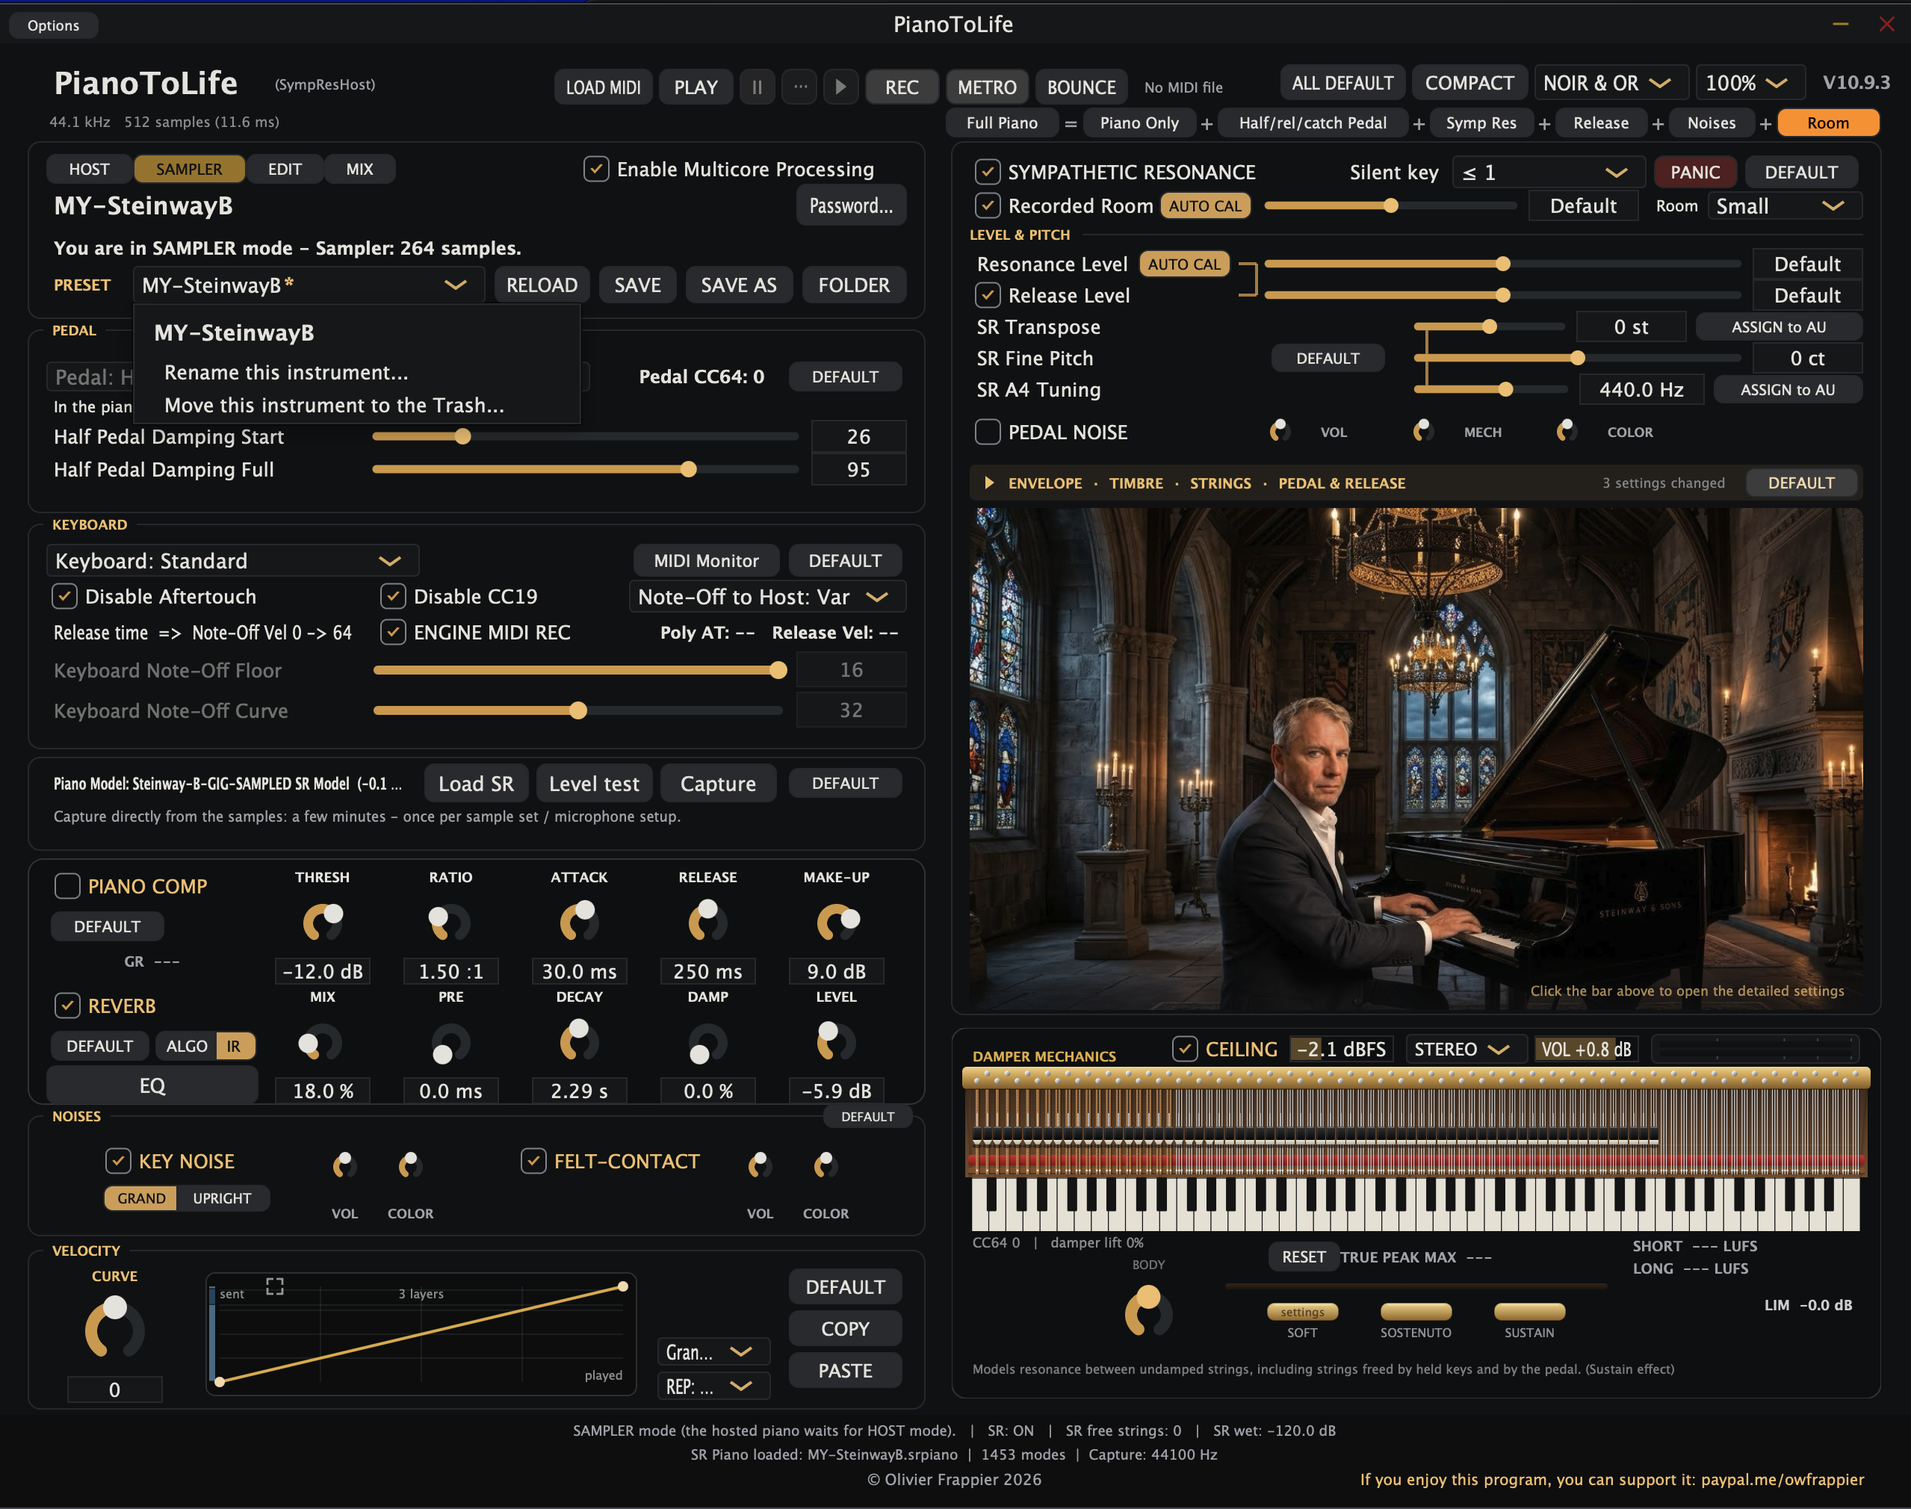
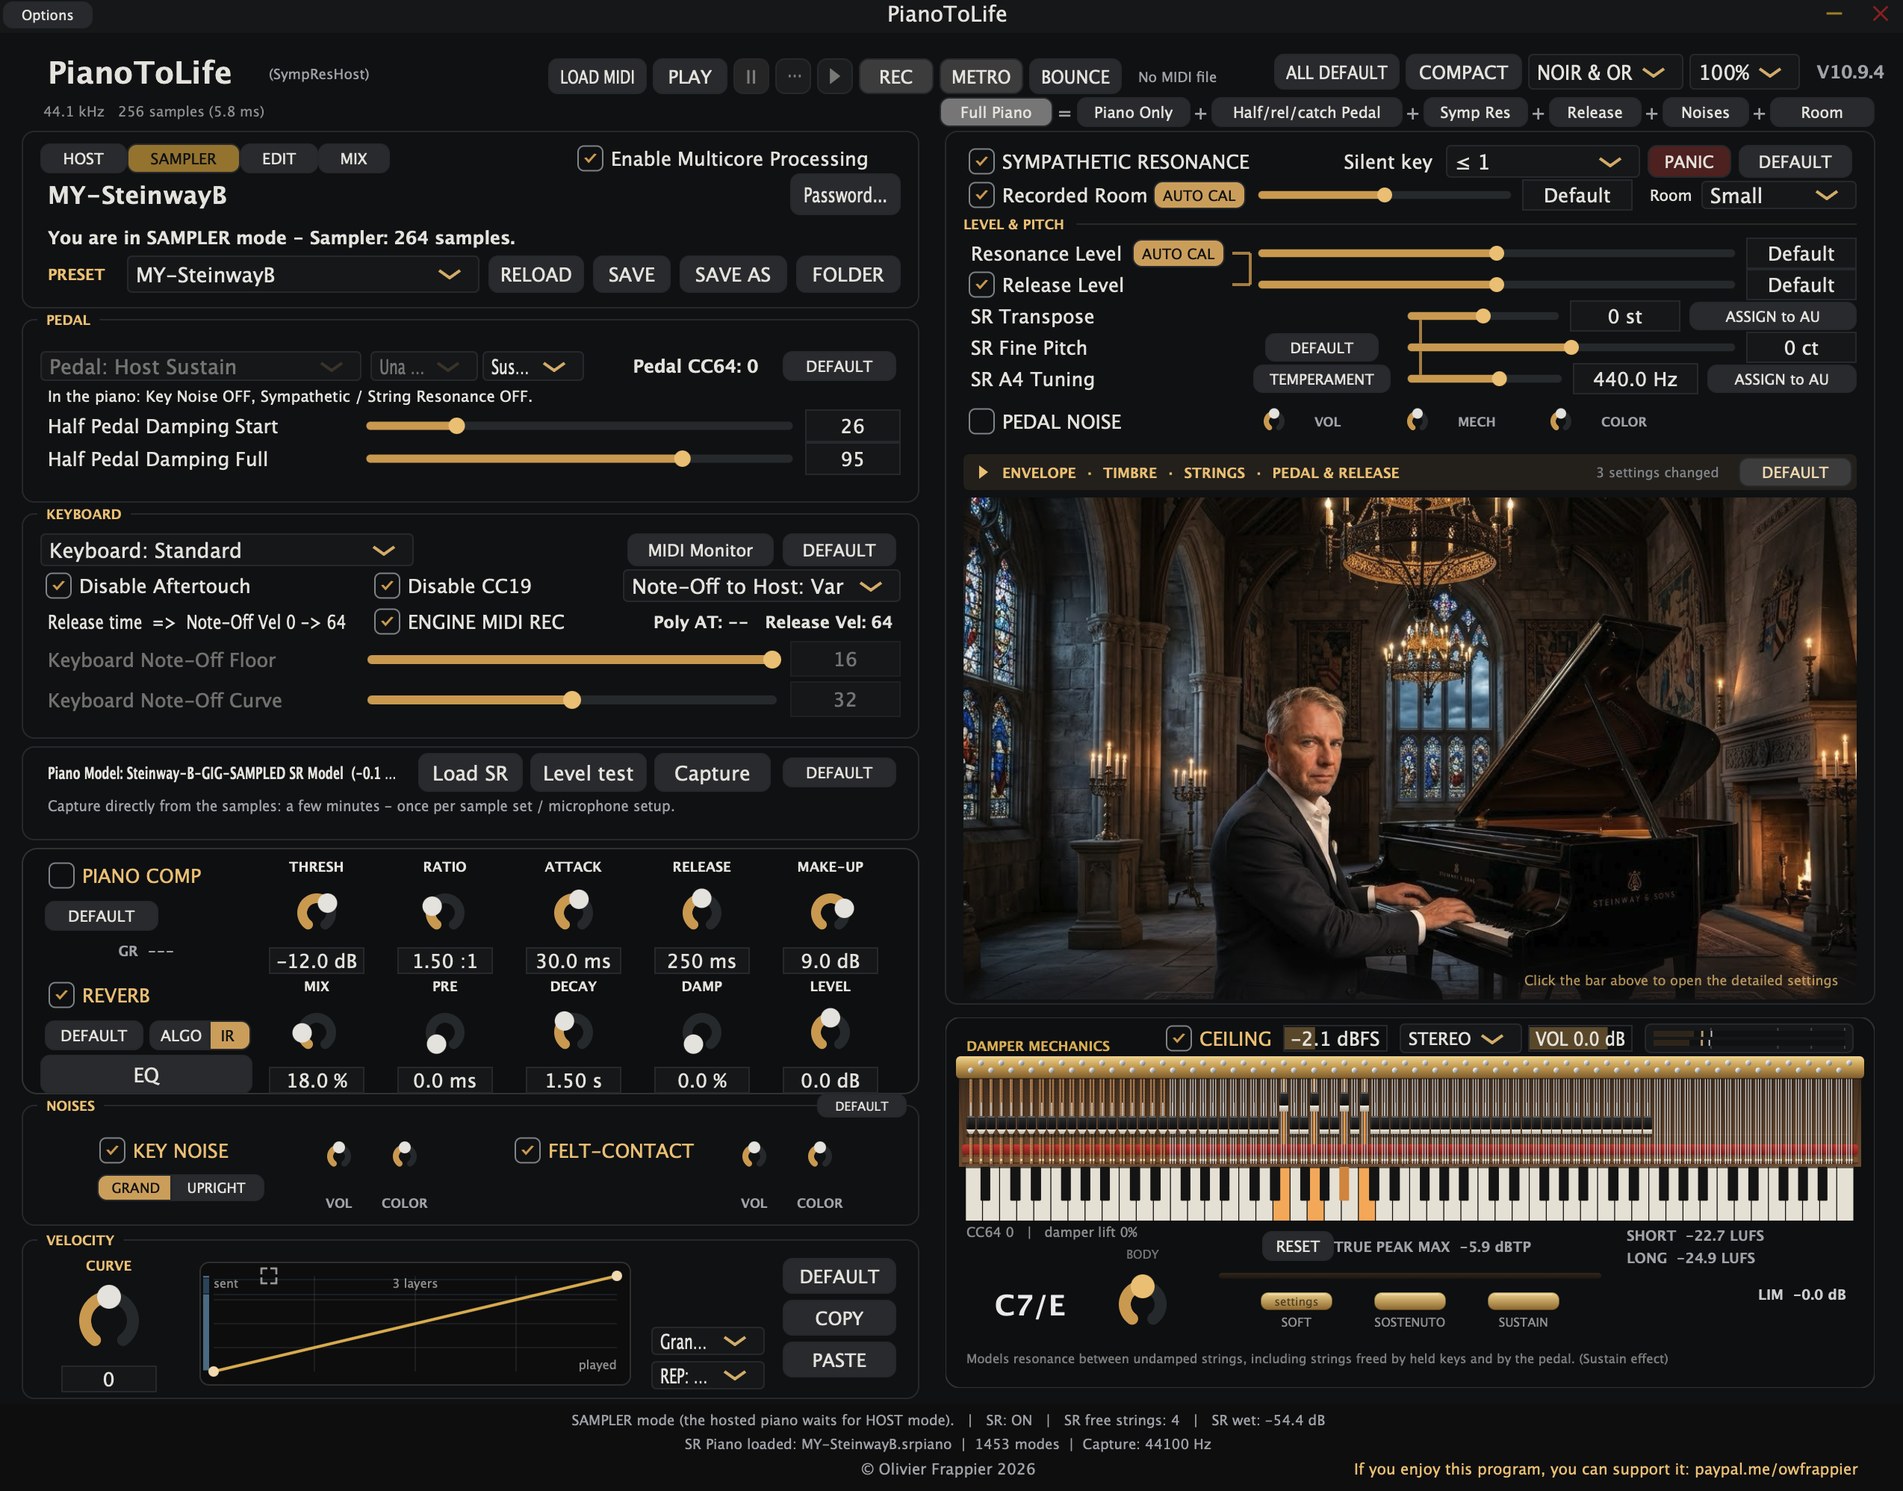
Add files via upload

diff --git a/MANUEL_SAMPLER.md b/MANUEL_SAMPLER.md
@@ -1,6 +1,6 @@
 # Sampler de PianoToLife — Manuel d'utilisation
 
-*Version 10.9.3 · [English version](SAMPLER_MANUAL.md) · Manuel général : [Manuel d'utilisation](MANUEL.md)*
+*Version 10.9.4 · [English version](SAMPLER_MANUAL.md) · Manuel général : [Manuel d'utilisation](MANUEL.md)*
 
 Le sampler intégré de PianoToLife joue **vos propres échantillons de piano**, avec tous les moteurs de PianoToLife
 par-dessus. Ce manuel explique comment transformer un dossier d'échantillons en piano jouable, ce que fait chaque
@@ -208,7 +208,8 @@ partie vide de la grille pour vider la sélection avant de travailler sur toutes
    AUTO DYN, pour qu'il écoute des frappes bien alignées.
 3. **AUTO DYN1 / AUTO DYN2** (10.6.2 ; un seul AUTO DYN avant, appelé RECAL A4 avant la 10.4.2) — tous deux écoutent
    le A4 aux 127 vélocités, placent ses couches là où leur intensité les met sur la courbe de référence et les mettent
-   à niveau. Ils mesurent aussi l'accord du A4 (envoyé à SR A4 Tuning : 440 Hz joue le set tel qu'il a été enregistré).
+   à niveau. Ils mesurent aussi l'accord du A4 (envoyé à SR A4 Tuning : cette valeur joue le set tel qu'il a été
+   enregistré ; RESET dans la fenêtre TEMPERAMENT y revient).
    Ensuite :
    - **AUTO DYN1** (global, comme avant la 10.5.6) : chaque touche qui a **autant de couches que le A4** reçoit les
      plages de vélocité du A4 et est mise à niveau ; les touches qui ont un autre nombre de couches restent telles
@@ -367,7 +368,7 @@ les couches des touches choisies.
 | **Attack** | Temps de montée, 0 = l'échantillon tel qu'enregistré |
 | **Decay** / **Sustain** | Temps pour atteindre le niveau Sustain ; 0 = l'extinction naturelle de l'échantillon |
 | **Release** | 0 = **Auto** (le modèle d'étouffoirs de PianoToLife ; sans étouffoir au-dessus de Undamped Keys Above) ; un temps en ms ; tout à droite = **Infinite** (sans étouffoir : touches aiguës non étouffées) |
-| **Tune** | Accord fin en cents |
+| **Tune** | Accord fin en cents. **ALL 0** (10.9.4, au bout de la ligne) : le Tune de toutes les touches revient à 0, la hauteur des samples tels qu'enregistrés (une étape UNDO) |
 | **LP** + fréquence + **LP Vel** | Passe-bas optionnel par voix ; LP Vel assombrit les notes douces (jusqu'à 3 octaves plus bas à 100 %) |
 | **Undamped** | Undamped Keys Above, pour tout le piano (le réglage de la fenêtre principale, synchronisé) : les touches au-dessus n'ont pas d'étouffoir |
 
@@ -456,11 +457,40 @@ En mode SAMPLER, les moteurs de PianoToLife jouent sur vos échantillons :
   vrai piano — niveau, brillance, extinction, attaque, un très léger désaccord dans le grave, et la montée d'une
   touche refrappée pendant qu'elle sonne — mesurées sur la référence choisie (Grand D / Grand B / Upright).
   Désactivé par défaut ; enregistré dans les presets ([Manuel d'utilisation](MANUEL.md#répétition-de-piano-réel-rep)).
-- **Accord** : SR Transpose, SR Fine Pitch et SR A4 Tuning agissent sur le sampler.
+- **Accord** : SR Transpose, SR Fine Pitch et SR A4 Tuning agissent sur le sampler ; le tempérament : **TEMPERAMENT**
+  (ci-dessous).
 - **BODY** : la taille perçue du piano.
 
 **Détecteur de couches** (à côté de Capture) : joue une note aux 127 vélocités et liste les vraies couches du piano,
 pour vérifier un set. **LEVEL TEST** : joue A0, C2, C4, C6 et C8 à la vélocité 127 et indique si le piano sature.
+
+### Tempérament et diapason (10.9.4)
+
+**TEMPERAMENT** (fenêtre principale, sur la ligne SR A4 Tuning — pas dans EDIT, donc utilisable sur un set protégé
+par mot de passe) mesure le tempérament dans lequel vos samples ont été enregistrés, à partir de la hauteur de chaque
+touche, et vous permet de jouer le piano dans un autre. **Les samples ne sont jamais modifiés** : chaque touche reçoit
+un décalage ajouté à son Tune, et la résonance sympathique suit (chaque corde libre, et la force avec laquelle elle
+répond).
+
+- **Temperament** : *Original (as recorded)*, Equal, Pythagorean, Just intonation, Werckmeister III, Kirnberger III,
+  Vallotti, Young, Meantone 1/4, 1/3, 1/5, 1/6 et 2/7 comma ; en bas de la liste, **Load a Scala file (.scl)...**
+  (12 notes par octave, qui se répètent à l'octave) et **Export as a Scala file (.scl)...** (le tempérament joué ; le
+  stretch et le A4 ne font pas partie d'un fichier Scala).
+- **Tonic** : la tonalité sur laquelle le tempérament est construit (ses accords les plus purs).
+- **Stretch** : 100 % = le stretch avec lequel ce piano a été accordé (mesuré), 0 % = aucun (chaque octave exacte),
+  jusqu'à 200 %.
+- **Diapason A4** : le même réglage que SR A4 Tuning ; **RESET** remet le A4 auquel le piano a été enregistré.
+- **AS RECORDED** : retour au tempérament, au stretch et au A4 de l'enregistrement.
+- **Le tableau** : pour chacune des 12 notes, en cents par rapport au tempérament égal (La = 0), **Recorded** (mesuré
+  sur les samples, de La 2 à Do 6), **Played** et **Shift**. **Cliquez une valeur de Shift pour taper la vôtre**
+  (−60 à +60) : le tempérament devient **Custom (edited)**, enregistré avec le set. En dessous : le stretch enregistré
+  (Do 2 à Do 7) et le tempérament le plus proche de l'enregistrement (par exemple *closest to Equal, 1.5 c rms*).
+
+Chaque touche garde ses petites différences (un accord réel n'est jamais parfait) ; seuls le tempérament et le
+stretch changent. Le tempérament est enregistré dans le set, les presets et les sessions ; chaque changement est une
+étape UNDO nommée dans EDIT. Les pitch bends et les messages d'accord des fichiers MIDI ne sont pas utilisés. La
+capture du Piano Model mesure toujours les samples tels qu'enregistrés : elle n'est jamais à refaire pour un
+tempérament.
 
 ---
 

diff --git a/SAMPLER_MANUAL.md b/SAMPLER_MANUAL.md
@@ -1,6 +1,6 @@
 # PianoToLife Sampler — User Manual
 
-*Version 10.9.3 · [Version française](MANUEL_SAMPLER.md) · General manual: [User Manual](USER_MANUAL.md)*
+*Version 10.9.4 · [Version française](MANUEL_SAMPLER.md) · General manual: [User Manual](USER_MANUAL.md)*
 
 PianoToLife's built-in sampler plays **your own piano samples** with all of PianoToLife's engines on top of
 them. This manual explains how to turn a folder of samples into a playable piano, what every button does, and
@@ -198,7 +198,8 @@ a selection before working on every key.
    listens to well-aligned strikes.
 3. **AUTO DYN1 / AUTO DYN2** (10.6.2; one AUTO DYN before, called RECAL A4 before 10.4.2) — both listen to A4 at all
    127 velocities, place its layers where their loudness belongs on the reference curve and level them. They also
-   measure A4's tuning (sent to SR A4 Tuning, so 440 Hz plays the set as recorded). Then:
+   measure A4's tuning (sent to SR A4 Tuning: that value plays the set as recorded; RESET in the TEMPERAMENT window
+   goes back to it). Then:
    - **AUTO DYN1** (global, as before 10.5.6): every key with **as many layers as A4** gets A4's velocity ranges and is
      levelled; keys with another number of layers are left as they are (AUTO DYN2 places them). For a library
      recorded evenly key to key.
@@ -344,7 +345,7 @@ keys.
 | **Attack** | Fade-in time, 0 = the sample as recorded |
 | **Decay** / **Sustain** | Time to reach the Sustain level; 0 = the natural decay of the sample |
 | **Release** | 0 = **Auto** (PianoToLife's damper model; no damper above Undamped Keys Above); a time in ms; all the way right = **Infinite** (no damper: undamped top keys) |
-| **Tune** | Fine tune in cents |
+| **Tune** | Fine tune in cents. **ALL 0** (10.9.4, at the end of the row): every key's Tune back to 0, the pitch of the samples as recorded (one UNDO step) |
 | **LP** + cutoff + **LP Vel** | Optional low-pass per voice; LP Vel makes soft notes darker (up to 3 octaves lower at 100 %) |
 | **Undamped** | Undamped Keys Above, for the whole piano (the main window's setting, in sync): the keys above it have no damper |
 
@@ -433,11 +434,38 @@ In SAMPLER mode, PianoToLife's engines play on your samples:
   brightness, decay, attack, a tiny detune in the bass, and the build-up of a key struck again while it sounds — as
   measured on the chosen reference (Grand D / Grand B / Upright). Off by default; saved in presets
   ([User Manual](USER_MANUAL.md#real-piano-repetition-rep)).
-- **Tuning**: SR Transpose, SR Fine Pitch and SR A4 Tuning play on the sampler.
+- **Tuning**: SR Transpose, SR Fine Pitch and SR A4 Tuning play on the sampler; the temperament: **TEMPERAMENT**
+  (below).
 - **BODY**: the perceived size of the piano.
 
 **Layer detector** (next to Capture): plays a note at the 127 velocities and lists the real layers of the piano, to
 check a set.  **LEVEL TEST**: plays A0, C2, C4, C6, C8 at velocity 127 and tells you whether the piano clips.
+
+### Temperament and diapason (10.9.4)
+
+**TEMPERAMENT** (main window, on the SR A4 Tuning row — not in EDIT, so it works on a set protected by a password)
+measures the temperament your samples were recorded in, from the pitch of every key, and lets you play the piano in
+another one. **The samples are never changed**: each key gets an offset added to its Tune, and the sympathetic
+resonance follows (each free string, and how strongly it answers).
+
+- **Temperament**: *Original (as recorded)*, Equal, Pythagorean, Just intonation, Werckmeister III, Kirnberger III,
+  Vallotti, Young, Meantone 1/4, 1/3, 1/5, 1/6 and 2/7 comma; at the bottom of the list, **Load a Scala file
+  (.scl)...** (12 notes per octave, repeating at the octave) and **Export as a Scala file (.scl)...** (the temperament
+  played; the stretch and the A4 are not in a Scala file).
+- **Tonic**: the key the temperament is built on (its purest chords).
+- **Stretch**: 100 % = the stretch this piano was tuned with (measured), 0 % = none (every octave exact), up to
+  200 %.
+- **Diapason A4**: the same setting as SR A4 Tuning; **RESET** puts back the A4 the piano was recorded at.
+- **AS RECORDED**: back to the temperament, the stretch and the A4 of the recording.
+- **The table**: for each of the 12 notes, in cents from equal temperament (A = 0), **Recorded** (measured on the
+  samples, A2 to C6), **Played** and **Shift**. **Click a Shift value to type your own** (−60 to +60): the
+  temperament becomes **Custom (edited)**, saved with the set. Under it: the stretch recorded (C2 to C7) and the
+  temperament closest to the recording (e.g. *closest to Equal, 1.5 c rms*).
+
+Each key keeps its own small differences (a real tuning is never perfect); only the temperament and the stretch
+change. The temperament is saved in the set, the presets and the sessions; every change is a named UNDO step in EDIT.
+Pitch bends and tuning messages of MIDI files are not used. The Piano Model capture always measures the samples as
+recorded, so it never needs to be done again for a temperament.
 
 ---
 

diff --git a/MANUEL.md b/MANUEL.md
@@ -1,6 +1,6 @@
 # PianoToLife — Manuel d'utilisation
 
-*Version 10.9.3 · [English version](USER_MANUAL.md) · Mapping du sampler : [Manuel du sampler](MANUEL_SAMPLER.md)*
+*Version 10.9.4 · [English version](USER_MANUAL.md) · Mapping du sampler : [Manuel du sampler](MANUEL_SAMPLER.md)*
 
 PianoToLife fait **se comporter un piano virtuel comme un vrai** : les cordes qui résonnent par sympathie, la pédale
 de sustain et la demi-pédale, les étouffoirs, le relâchement, l'una corda, les bruits de la mécanique. Ce manuel
@@ -171,6 +171,34 @@ de concert est fourni.
 en texte).
 Mode HOST seulement (10.6.3) : en mode SAMPLER, les couches sont connues et déjà placées sur la référence par AUTO DYN,
 donc ANALYSE et EXPORT sont masqués.
+
+### Diapason et tempérament (10.9.4)
+
+**La résonance est toujours accordée comme le piano que vous entendez.** Chaque corde libre suit l'accord de sa
+touche, et la force avec laquelle une note excite une autre corde est calculée sur les cordes telles qu'elles sont
+accordées maintenant : avec un tempérament où une tierce est pure, ses cordes résonnent davantage, comme sur un vrai
+piano.
+
+**HOST : le diapason du piano hébergé est détecté.** La capture mesure le A4 du piano hébergé (sur son propre son, au
+0,1 Hz près) et l'affiche dans **SR A4 Tuning** : un piano accordé à 437 Hz indique 437,0 Hz après la capture. Un
+Piano Model est enregistré à A4 = 440 Hz, il reste donc juste quand le diapason change : changez SR A4 Tuning avec le
+diapason du piano hébergé (ou reliez-les avec **ASSIGN to AU** : c'est alors le piano hébergé qui donne la valeur et
+PianoToLife ne la change jamais). Au chargement d'un Piano Model, SR A4 Tuning revient au diapason de sa capture.
+
+**HOST : un Piano Model par tempérament.** PianoToLife ne change lui-même le tempérament qu'en mode SAMPLER. Si votre
+piano hébergé propose des tempéraments, choisissez-en un dans le piano, puis capturez un Piano Model avec ce
+tempérament : la résonance le suit alors exactement. Nommez chaque modèle d'après son tempérament (par exemple
+*Mon Piano – Werckmeister III.srpiano*). Le bouton **TEMPERAMENT** (sur la ligne SR A4 Tuning) l'explique en mode
+HOST, avec un bouton CAPTURE.
+
+**SAMPLER : TEMPERAMENT.** Le même bouton ouvre le tempérament de vos samples : mesuré, puis changé touche par touche
+sans toucher aux fichiers — voir le [Manuel du sampler](MANUEL_SAMPLER.md#tempérament-et-diapason-1094). Une capture
+en SAMPLER mesure toujours les samples tels qu'enregistrés, quels que soient le Tune, le tempérament ou le diapason.
+
+**Vos Piano Models restent bons.** Ceux capturés avec les réglages par défaut jouent exactement comme avant (un ancien
+modèle HOST est ramené à 440 en mémoire et SR A4 Tuning affiche son diapason ; le fichier n'est pas modifié). Ne
+refaites que les modèles capturés en SAMPLER avec SR A4 Tuning, Transpose, Fine Pitch ou le Tune des touches modifiés,
+ou en HOST avec SR A4 Tuning différent de 440 Hz.
 
 ---
 

diff --git a/USER_MANUAL.md b/USER_MANUAL.md
@@ -1,6 +1,6 @@
 # PianoToLife — User Manual
 
-*Version 10.9.3 · [Version française](MANUEL.md) · Sampler mapping: [Sampler Manual](SAMPLER_MANUAL.md)*
+*Version 10.9.4 · [Version française](MANUEL.md) · Sampler mapping: [Sampler Manual](SAMPLER_MANUAL.md)*
 
 PianoToLife makes a virtual piano **behave like a real one**: the strings that ring in sympathy, the sustain pedal
 and half pedal, the dampers, the release, the una corda, the noises of the mechanism. This manual explains how it
@@ -162,6 +162,32 @@ concert grand is included.
 **Layer detector**: plays a note at the 127 velocities and lists the piano's real velocity layers (export as text).
 HOST mode only (10.6.3): in SAMPLER mode the layers are known and already placed on the reference by AUTO DYN, so
 ANALYSE and EXPORT are hidden.
+
+### Diapason and temperament (10.9.4)
+
+**The resonance is always tuned like the piano you hear.** Each free string follows the tuning of its key, and the
+strength with which a note excites another string is computed on the strings as they are tuned now: with a
+temperament where a third is pure, its strings ring more, as on a real piano.
+
+**HOST: the diapason of the hosted piano is detected.** The capture measures the A4 of the hosted piano (on its own
+sound, to 0.1 Hz) and shows it in **SR A4 Tuning**: a piano tuned at 437 Hz reads 437.0 Hz after the capture. A
+Piano Model is stored at A4 = 440 Hz, so it stays right when the diapason changes: change SR A4 Tuning with the
+hosted piano's diapason (or link them with **ASSIGN to AU**: then the hosted piano gives the value and PianoToLife
+never changes it). When a Piano Model is loaded, SR A4 Tuning goes back to the diapason it was captured at.
+
+**HOST: one Piano Model per temperament.** PianoToLife changes the temperament itself only in SAMPLER mode. If your
+hosted piano offers temperaments, choose one there, then capture a Piano Model with it — the resonance then follows
+that temperament exactly. Name each model after its temperament (e.g. *My Piano – Werckmeister III.srpiano*). The
+**TEMPERAMENT** button (on the SR A4 Tuning row) explains this in HOST mode, with a CAPTURE button.
+
+**SAMPLER: TEMPERAMENT.** The same button opens the temperament of your samples: measured, then changed key by key
+without touching the files — see the [Sampler Manual](SAMPLER_MANUAL.md#temperament-and-diapason-1094). A SAMPLER
+capture always measures the samples as recorded, whatever the Tune, temperament or diapason set.
+
+**Your Piano Models are still good.** Those captured with the default settings play exactly as before (an older HOST
+model is brought to 440 in memory and SR A4 Tuning shows its diapason; the file is not changed). Only capture again a
+model made in SAMPLER with SR A4 Tuning, Transpose, Fine Pitch or the Tune of keys changed, or in HOST with SR A4
+Tuning not at 440 Hz.
 
 ---
 
